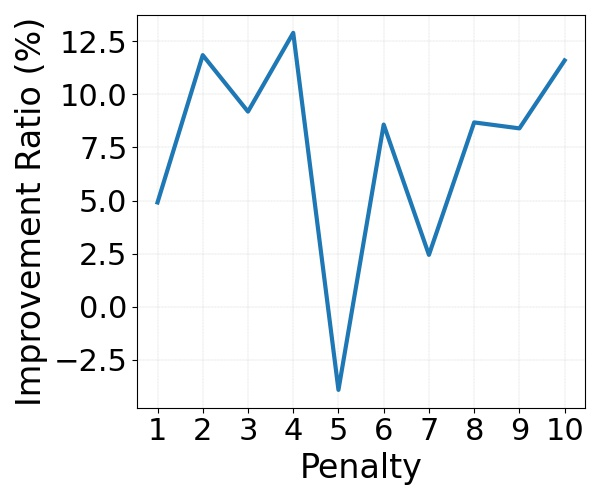
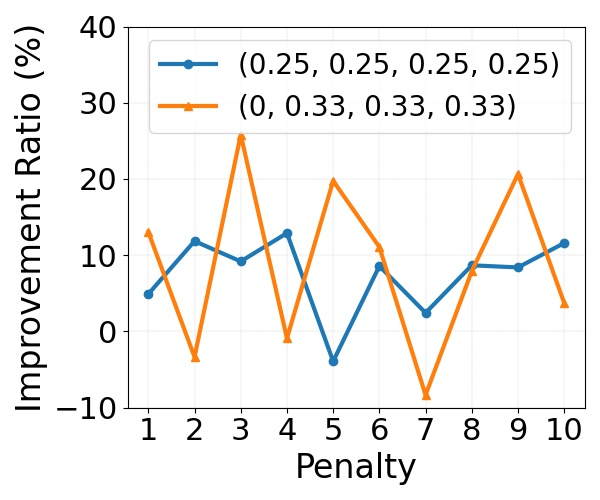
Trace for (0, 0.33, 0.33, 0.33) done

diff --git a/ResultAnalysis/penalty_performance.py b/ResultAnalysis/penalty_performance.py
@@ -10,18 +10,24 @@ import sys
 import numpy as np
 import matplotlib.pyplot as plt
 
-improvement_ratio = [4.91, 11.85, 9.19, 12.9, -3.92, 8.58, 2.44, 8.68, 8.4, 11.60]
-penalty_factor = np.arange(1, len(improvement_ratio)+1)
+improvement_ratio = [
+    [4.91, 11.85, 9.19, 12.9, -3.92, 8.58, 2.44, 8.68, 8.4, 11.60],
+    [13.05, -3.35, 25.81, -0.9, 19.75, 11.08, -8.34, 7.91, 20.64, 3.73]
+]
+penalty_factor = np.arange(1, len(improvement_ratio[0])+1)
 
 # temporarily add this project to system path
 project_dir = str(pathlib.Path(__file__).resolve().parents[1])
 sys.path.append(project_dir)
 
 plt.figure(1, figsize=(6, 5))
-plt.plot(penalty_factor, improvement_ratio, linewidth=3)
+plt.plot(penalty_factor, improvement_ratio[0], '-o', linewidth=3)
+plt.plot(penalty_factor, improvement_ratio[1], '-^', linewidth=3)
+plt.legend(['(0.25, 0.25, 0.25, 0.25)', '(0, 0.33, 0.33, 0.33)'], loc='best', fontsize=20)
 plt.xlabel('Penalty', fontsize=24)
 plt.xticks(penalty_factor, fontsize=22)
 plt.ylabel('Improvement Ratio (%)', fontsize=24)
+plt.ylim([-10, 40])
 plt.yticks(fontsize=22)
 plt.grid(linestyle='--', linewidth=0.2)
 plt.tight_layout()

diff --git a/ResultAnalysis/overall_performance.py b/ResultAnalysis/overall_performance.py
@@ -44,11 +44,11 @@ trace_infos = [
     (True, 'speech_command', 'resnet_10', 20, 20, 0, 0.33, 0.33, 0.33, 8, 1),
     (True, 'speech_command', 'resnet_10', 20, 20, 0, 0.33, 0.33, 0.33, 9, 1),
     (True, 'speech_command', 'resnet_10', 20, 20, 0, 0.33, 0.33, 0.33, 10, 1),
-    # (True, 'speech_command', 'resnet_10', 20, 20, 0.1, 0, 0.1, 0.8, 1, 1),
-    # (True, 'speech_command', 'resnet_10', 20, 20, 0.1, 0, 0.1, 0.8, 10, 1),
-    # (True, 'speech_command', 'resnet_10', 20, 20, 0.1, 0, 0.1, 0.8, 10, 2),
-    # (True, 'speech_command', 'resnet_10', 20, 20, 0.5, 0, 0, 0.5, 1, 1),
-    # (True, 'speech_command', 'resnet_10', 20, 20, 0.5, 0, 0, 0.5, 10, 2)
+    (True, 'speech_command', 'resnet_10', 20, 20, 0.1, 0, 0.1, 0.8, 1, 1),
+    (True, 'speech_command', 'resnet_10', 20, 20, 0.1, 0, 0.1, 0.8, 10, 1),
+    (True, 'speech_command', 'resnet_10', 20, 20, 0.1, 0, 0.1, 0.8, 10, 2),
+    (True, 'speech_command', 'resnet_10', 20, 20, 0.5, 0, 0, 0.5, 1, 1),
+    (True, 'speech_command', 'resnet_10', 20, 20, 0.5, 0, 0, 0.5, 10, 2)
 ]
 
 # --- End of Configuration ---
